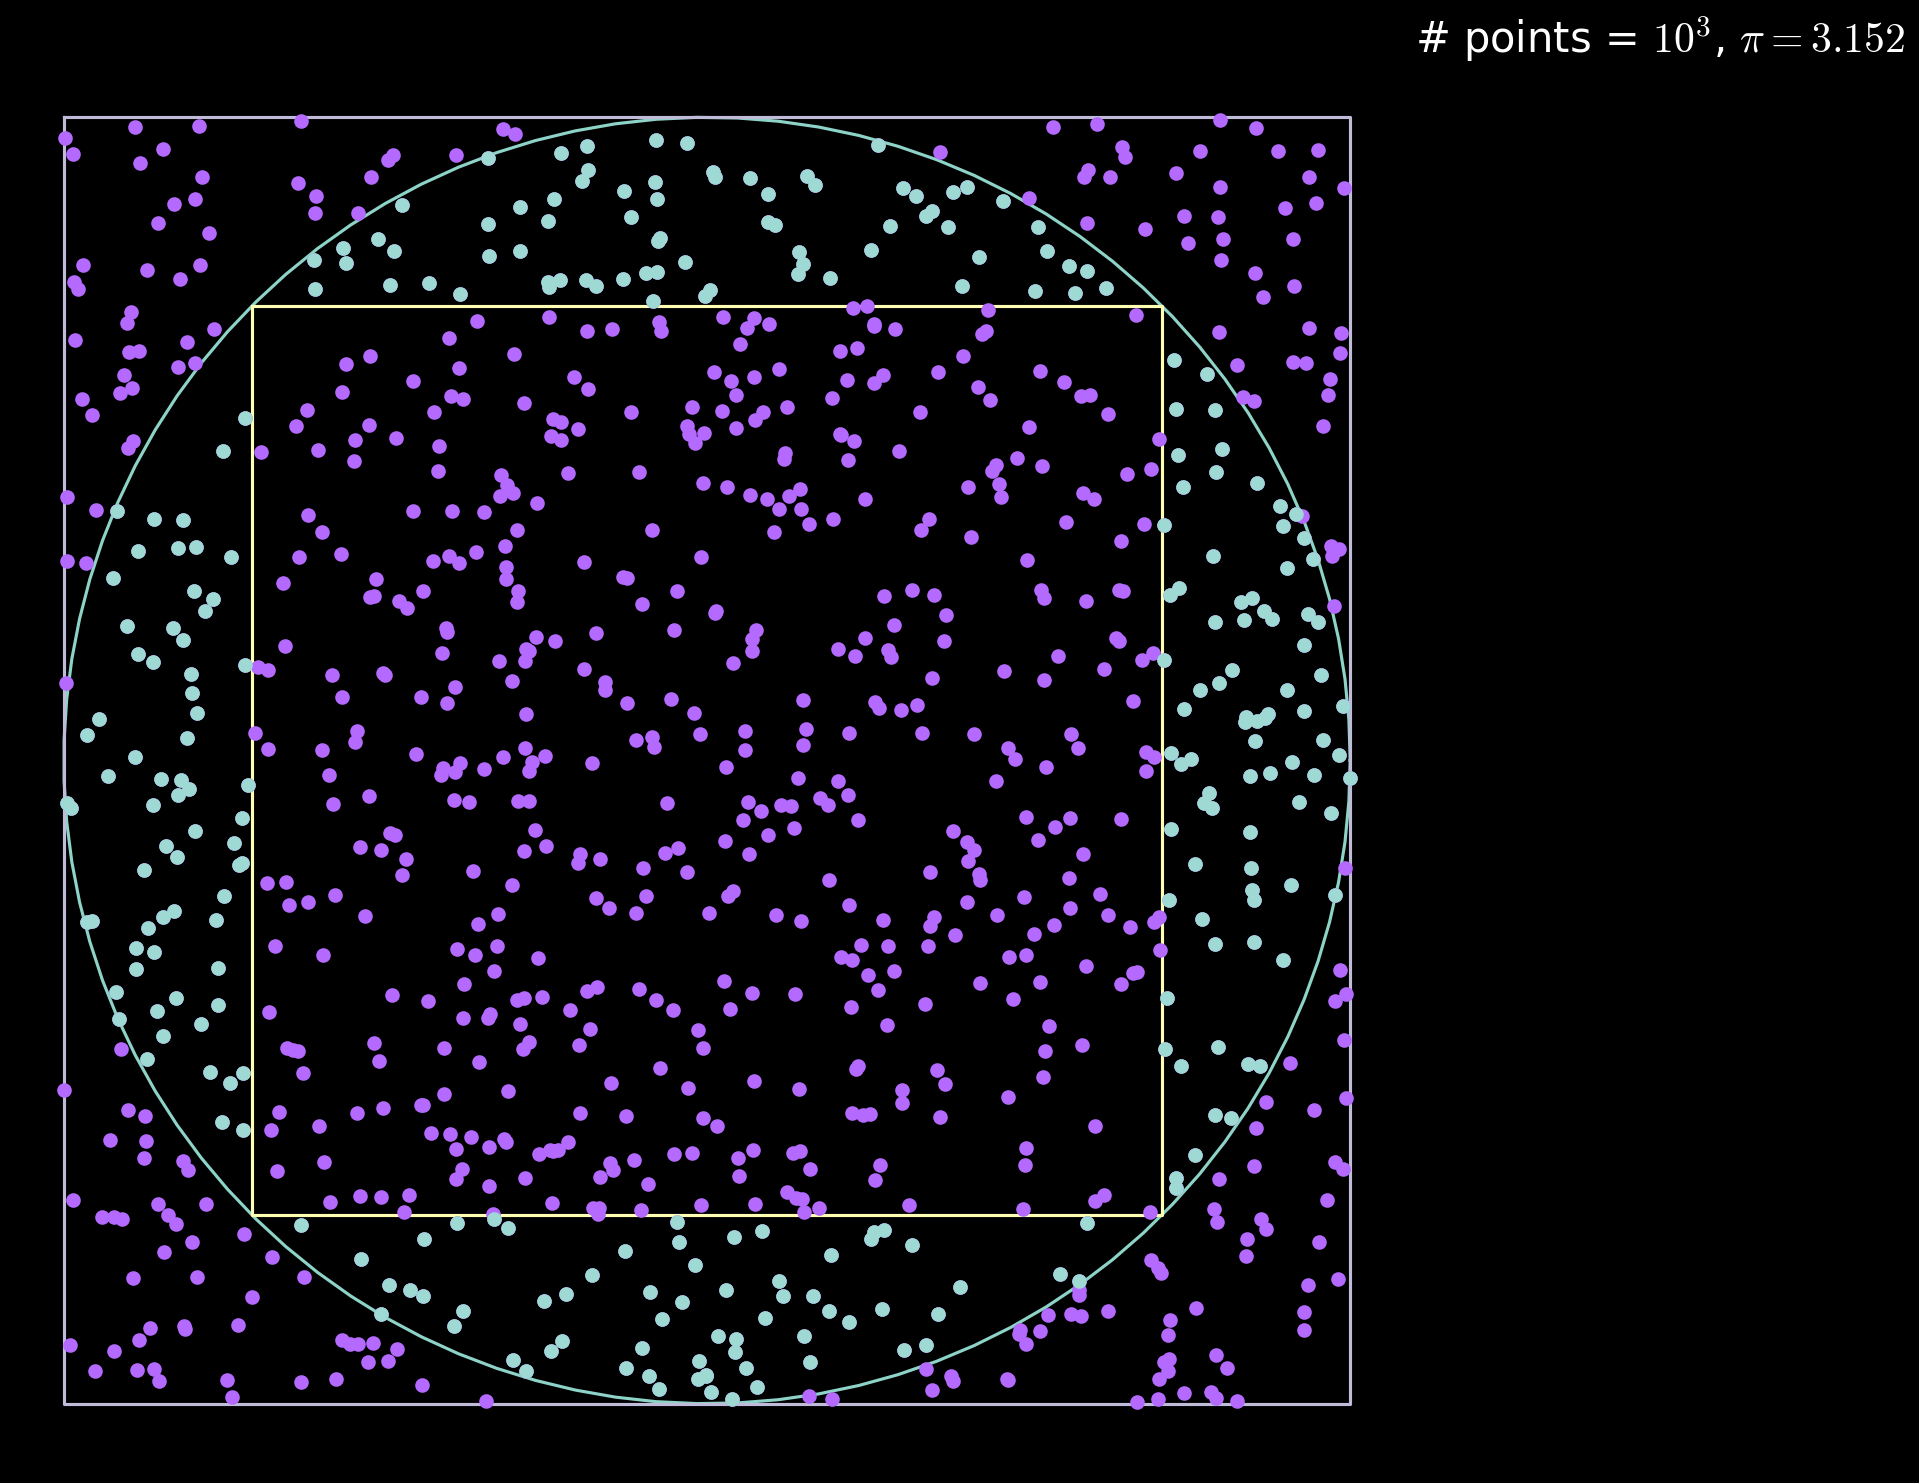
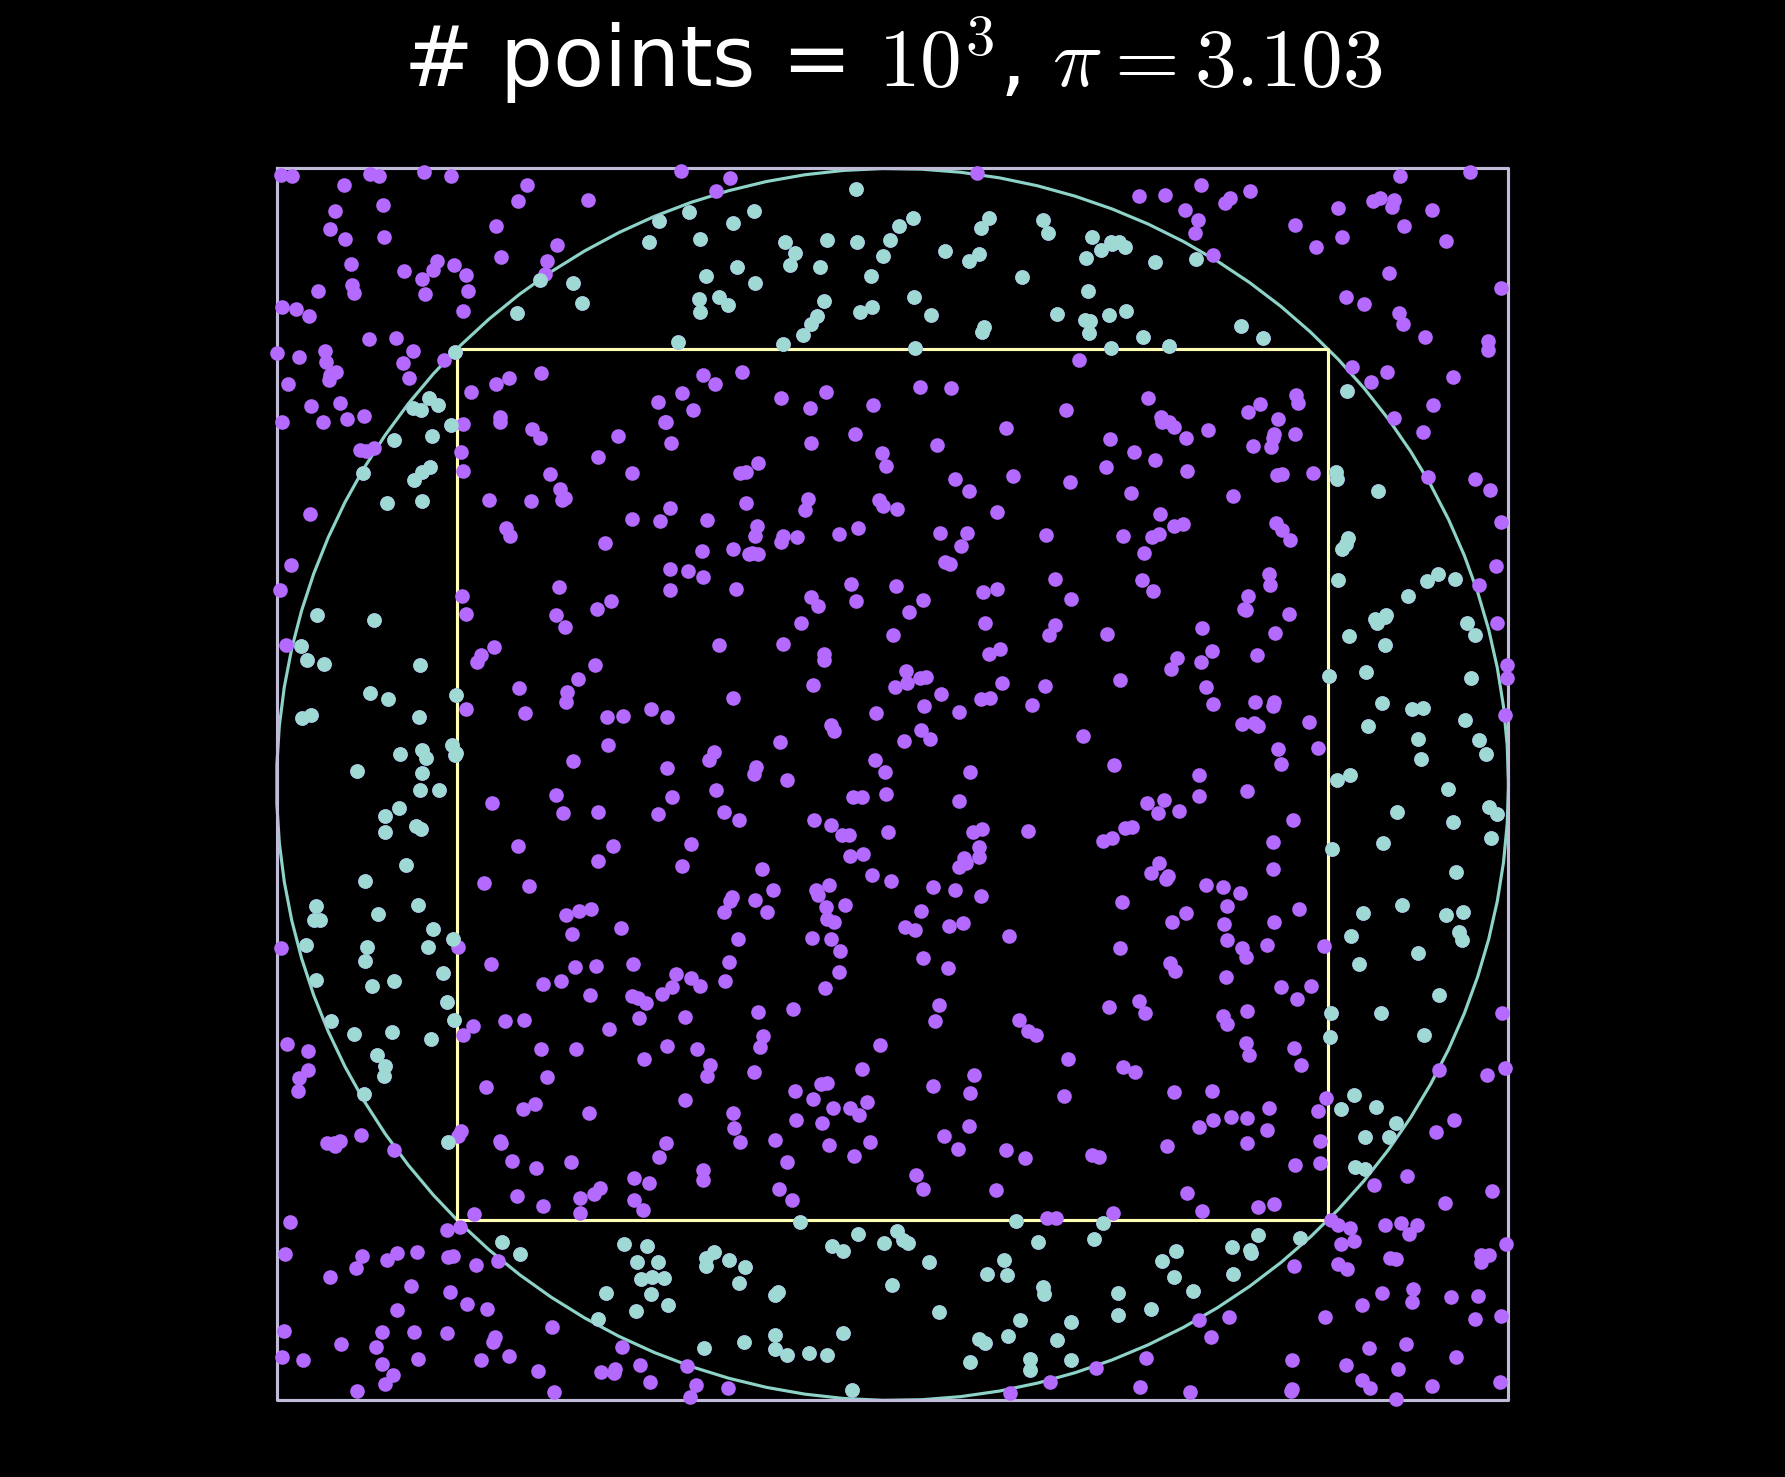
Update pi titles

diff --git a/pi_day/pi_day.py b/pi_day/pi_day.py
@@ -54,7 +54,7 @@ for k in range(1,nsteps+1):
     ax.plot(x[:,0],x[:,1],'o',mfc='#b469ff',mec='#b469ff')
     ax.plot(x[outsqmask,0],x[outsqmask,1],'o',mfc='#9ed9d4',mec='#9ed9d4')
 
-    ax.text(1.1,1.1, r"# points = $10^{%d}$, $\pi = %.3f$" %(k,pi_est),fontsize=20)
+    ax.set_title(r"# points = $10^{%d}$, $\pi = %.3f$" %(k,pi_est),fontsize=40)
 
     plt.tight_layout()
     #plt.show()
